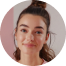
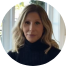
fix:iamges

diff --git a/src/utils/quiz-results.ts b/src/utils/quiz-results.ts
@@ -9,30 +9,38 @@ export interface QuizResult {
 export const quizResults: QuizResult[] = [
   {
     id: 1,
-    type: "brokenHeartStorm",
-    title: "The Broken Heart Storm",
-    description: "You're inside an emotional storm — raw heartbreak, shock, confusion, and fear. Your nervous system is overwhelmed. Your thoughts are loud. And every decision feels dangerous. This phase is the most vulnerable for a woman — because your heart is screaming, while your mind is trying to survive.",
-		secondaryDescription: "You're not broken. You're hurting. And you're doing everything you can. But if you stay in this emotional cycle, your self-worth and clarity will collapse — and you'll repeat the same painful patterns in the next relationship. This is why Lily's Masterclass is essential for you. You'll learn what's happening in his mind, why the pain feels unbearable, and how to regain emotional control without chasing, begging, or breaking yourself even more."
+    type: 'brokenHeartStorm',
+    title: 'The Broken Heart Storm',
+    description:
+      "You're inside an emotional storm — raw heartbreak, shock, confusion, and fear. Your nervous system is overwhelmed. Your thoughts are loud. And every decision feels dangerous. This phase is the most vulnerable for a woman — because your heart is screaming, while your mind is trying to survive.",
+    secondaryDescription:
+      "You're not broken. You're hurting. And you're doing everything you can. But if you stay in this emotional cycle, your self-worth and clarity will collapse — and you'll repeat the same painful patterns in the next relationship. This is why Lily's Masterclass is essential for you. You'll learn what's happening in his mind, why the pain feels unbearable, and how to regain emotional control without chasing, begging, or breaking yourself even more.",
   },
   {
     id: 2,
-    type: "lonelyHopeLoop",
-    title: "The Lonely Hope Loop",
-    description: "You're caught between hope and disappointment. You want love deeply — but dating feels exhausting, discouraging, and unpredictable. You attract the wrong type, or you feel invisible to the kind of men you want. You compare yourself to women who 'got lucky,' and secretly worry that love is slipping away from you.",
-		secondaryDescription: "But nothing is wrong with you. You're not behind. You're not defective. You're simply choosing from the wrong emotional frequency — a pattern you can break. Lily's Masterclass will be powerful for you. You'll learn why good men don't stick, how men fall in love, and how to shift into the energy that attracts real commitment —not crumbs."
+    type: 'lonelyHopeLoop',
+    title: 'The Lonely Hope Loop',
+    description:
+      "You're caught between hope and disappointment. You want love deeply — but dating feels exhausting, discouraging, and unpredictable. You attract the wrong type, or you feel invisible to the kind of men you want. You compare yourself to women who 'got lucky,' and secretly worry that love is slipping away from you.",
+    secondaryDescription:
+      "But nothing is wrong with you. You're not behind. You're not defective. You're simply choosing from the wrong emotional frequency — a pattern you can break. Lily's Masterclass will be powerful for you. You'll learn why good men don't stick, how men fall in love, and how to shift into the energy that attracts real commitment —not crumbs.",
   },
   {
     id: 3,
-    type: "silentBreakupRelationship",
-    title: "The Silent Breakup Relationship",
-    description: "You're in a relationship… but emotionally, you're already alone. You give more than you receive. You try to fix things on your own. You feel unseen, unheard, and unchosen. You're scared to stay — and terrified to leave. This is one of the most painful emotional states for a woman — because it feels like you're disappearing inside a relationship that no longer feeds you.",
-		secondaryDescription: "But this pattern can be transformed — or completed. The key is clarity. This is why Lily's Masterclass will be life-changing for you. You'll understand what broke the emotional bond, what men need to reawaken connection, and whether your relationship can be saved — or whether you must finally choose yourself."
+    type: 'silentBreakupRelationship',
+    title: 'The Silent Breakup Relationship',
+    description:
+      "You're in a relationship… but emotionally, you're already alone. You give more than you receive. You try to fix things on your own. You feel unseen, unheard, and unchosen. You're scared to stay — and terrified to leave. This is one of the most painful emotional states for a woman — because it feels like you're disappearing inside a relationship that no longer feeds you.",
+    secondaryDescription:
+      "But this pattern can be transformed — or completed. The key is clarity. This is why Lily's Masterclass will be life-changing for you. You'll understand what broke the emotional bond, what men need to reawaken connection, and whether your relationship can be saved — or whether you must finally choose yourself.",
   },
   {
     id: 4,
-    type: "endlessWaitingRoom",
-    title: "The Endless Waiting Room",
-    description: "You're in a relationship that looks like a future… but doesn't move toward one. You give love, support, time, loyalty — and deep down, you hope that one day he'll choose you and commit to the life you want. But the truth is painful: You're emotionally stuck between what you desire and what he's actually offering. He's comfortable. But not committed. And this dynamic slowly erodes your confidence, your value, and your sense of time.",
-		secondaryDescription: "This is not your fault — but it is your responsibility to break the cycle. Lily's Masterclass is crucial for you. You'll learn how men decide whether a woman is a 'girlfriend' or a 'future wife,' why he delays commitment, and what shifts the dynamic without threats or pressure. You deserve clarity — not another year of waiting."
+    type: 'endlessWaitingRoom',
+    title: 'The Endless Waiting Room',
+    description:
+      "You're in a relationship that looks like a future… but doesn't move toward one. You give love, support, time, loyalty — and deep down, you hope that one day he'll choose you and commit to the life you want. But the truth is painful: You're emotionally stuck between what you desire and what he's actually offering. He's comfortable. But not committed. And this dynamic slowly erodes your confidence, your value, and your sense of time.",
+    secondaryDescription:
+      "This is not your fault — but it is your responsibility to break the cycle. Lily's Masterclass is crucial for you. You'll learn how men decide whether a woman is a 'girlfriend' or a 'future wife,' why he delays commitment, and what shifts the dynamic without threats or pressure. You deserve clarity — not another year of waiting.",
   },
 ];

diff --git a/src/components/sections/Programs/BlindSpotSection.tsx b/src/components/sections/Programs/BlindSpotSection.tsx
@@ -68,7 +68,6 @@ function BlindSpotCard({ title, text, variant }: BlindCard) {
 export default function BlindSpotSection() {
   return (
     <section className='relative py-[72px] lg:py-[120px]'>
-      {/* background */}
       <div className='absolute inset-0 -mt-[120px] z-'>
         <Image
           src='/images/programs/blindspot_section_bg.png'
@@ -85,7 +84,6 @@ export default function BlindSpotSection() {
       </div>
 
       <div className='container relative z-10'>
-        {/* top heading */}
         <div className='text-center mx-auto'>
           <h2 className='font-canela font-thin text-brand-deep text-[48px] md:text-[48px] lg:text-[60px] leading-[110%]'>
             THE BLIND SPOT: Why You Can’t See It
@@ -98,24 +96,20 @@ export default function BlindSpotSection() {
           </p>
         </div>
 
-        {/* 4 cards */}
         <div className='mt-10 lg:mt-20 grid grid-cols-1 sm:grid-cols-2 lg:grid-cols-4 gap-4 lg:gap-6 mb-[100px] lg:mb-[112px]'>
           {CARDS.map((c) => (
             <BlindSpotCard key={c.title} {...c} />
           ))}
         </div>
 
-        {/* big statement */}
-
         <h2 className='font-thin text-[48px] lg:text-[60px] leading-[126%] font-canela text-brand-deep mb-[50px] lg:mb-[100px] text-center'>
           You cannot fix a pattern you cannot see.
         </h2>
         <div className='grid grid-cols-1 md:grid-cols-[4fr,3fr] gap-[43px] lg:gap-[102px] '>
-          {/* Left Column - Image */}
           <div className='flex flex-col gap-5 lg:gap-8 justify-center'>
-            <div className='relative md:mb-0 lg:mb-0 w-full h-[245px] lg:w-[600px] lg:h-[380px]'>
+            <div className='relative md:mb-0 lg:mb-0 w-full h-[245px] lg:w-[600px] lg:h-[380px] rounded-[32px]  overflow-hidden'>
               <Image
-                src='/images/landing/triage_section_women.png'
+                src='/images/landing/triage_section_women_new.png'
                 alt='Person sitting with a laptop'
                 fill
                 priority
@@ -147,7 +141,6 @@ export default function BlindSpotSection() {
             </div>
           </div>
 
-          {/* Right Column - The Fracture */}
           <div>
             <p className='font-thin text-[32px] leading-[126%] font-canela text-brand-black mb-2'>Thank you</p>
             <h2 className='font-thin text-[42px] leading-[126%] font-canela text-brand-deep mb-8'>

diff --git a/src/app/quiz-redirect/page.tsx b/src/app/quiz-redirect/page.tsx
@@ -1,35 +1,32 @@
-import FixSection from "@/components/sections/QuizResult/FixSection";
-import HeroSection from "@/components/sections/QuizResult/HeroSection";
-import ProfileGlitchSection from "@/components/sections/QuizResult/ProfileGlitchSection";
-import QuizResultTagger from "@/components/sections/QuizResult/QuizResultTagger"
-import { quizResults } from "@/utils/quiz-results";
-import { redirect } from "next/navigation";
-import React from "react";
+import FixSection from '@/components/sections/QuizResult/FixSection';
+import HeroSection from '@/components/sections/QuizResult/HeroSection';
+import ProfileGlitchSection from '@/components/sections/QuizResult/ProfileGlitchSection';
+import QuizResultTagger from '@/components/sections/QuizResult/QuizResultTagger';
+import { quizResults } from '@/utils/quiz-results';
+import { redirect } from 'next/navigation';
+import React from 'react';
 
 interface QuizResultPageProps {
-	searchParams: { type: string };
+  searchParams: { type: string };
 }
 
 const QuizResultPage = ({ searchParams }: QuizResultPageProps) => {
-	const type = searchParams.type;
+  const type = searchParams.type;
 
-	const result = quizResults.find((r) => r.type === type);
+  const result = quizResults.find((r) => r.type === type);
 
-	if (!result) {
-		redirect("/");
-	}
+  if (!result) {
+    redirect('/');
+  }
 
-	return (
-		<main>
-			<QuizResultTagger type={type!} />
-			<HeroSection title={result.title} />
-			<ProfileGlitchSection 
-				description={result.description} 
-				secondaryDescription={result.secondaryDescription}
-			/>
-			<FixSection />
-		</main>
-	);
+  return (
+    <main>
+      <QuizResultTagger type={type!} />
+      <HeroSection title={result.title} />
+      <ProfileGlitchSection description={result.description} secondaryDescription={result.secondaryDescription} />
+      <FixSection />
+    </main>
+  );
 };
 
 export default QuizResultPage;

diff --git a/functions/src/utils/vip-immersion/vip-immersion.ts b/functions/src/utils/vip-immersion/vip-immersion.ts
@@ -1,7 +1,7 @@
 import Stripe from "stripe";
 import { addTagToMember, processCircleAccess } from "../../lib/circle";
 import { getOffering, getUserData } from "../helpers/circle";
-import { sendWelcomeMessage } from "../helpers/circle/sendGreetMessage";
+import { CIRCLE_COURSE_ID } from "../../static/circle";
 
 export async function handleVipImmersion(pi: Stripe.PaymentIntent): Promise<void> {
   const { email, name, productType } = getUserData(pi);
@@ -11,13 +11,11 @@ export async function handleVipImmersion(pi: Stripe.PaymentIntent): Promise<void
   if (data?.tag) await addTagToMember(email, data.tag);
 
   if (data?.space_id) {
-    const { memberId } = await processCircleAccess({
+    await processCircleAccess({
       email,
       name,
-      courseId: "457048",
+      courseId: CIRCLE_COURSE_ID,
       spaceId: data.space_id,
     });
-
-    if (memberId) await sendWelcomeMessage(memberId, name, productType);
   }
 }

diff --git a/functions/src/utils/guided-breakthrough/guided-breakthrough.ts b/functions/src/utils/guided-breakthrough/guided-breakthrough.ts
@@ -1,18 +1,14 @@
 import Stripe from "stripe";
 import { addTagToMember, processCircleAccess } from "../../lib/circle";
 import { getOffering, getUserData } from "../helpers/circle";
-import { sendWelcomeMessage } from "../helpers/circle/sendGreetMessage";
+import { CIRCLE_COURSE_ID } from "../../static/circle";
 
 export async function handleGuidedBreakthrough(pi: Stripe.PaymentIntent): Promise<void> {
   const { email, name, productType } = getUserData(pi);
 
   const data = await getOffering(productType);
 
-  const { memberId } = await processCircleAccess({ email, name, courseId: "457048" });
+  await processCircleAccess({ email, name, courseId: CIRCLE_COURSE_ID });
 
   if (data?.tag) await addTagToMember(email, data.tag);
-
-  if (memberId) {
-    await sendWelcomeMessage(memberId, name, productType);
-  }
 }

diff --git a/functions/src/utils/protocol-essentials/protocol-essentials.ts b/functions/src/utils/protocol-essentials/protocol-essentials.ts
@@ -1,18 +1,14 @@
 import Stripe from "stripe";
 import { addTagToMember, processCircleAccess } from "../../lib/circle";
 import { getOffering, getUserData } from "../helpers/circle";
-import { sendWelcomeMessage } from "../helpers/circle/sendGreetMessage";
+import { CIRCLE_COURSE_ID } from "../../static/circle";
 
 export async function handleProtocolEssentials(pi: Stripe.PaymentIntent): Promise<void> {
   const { email, name, productType } = getUserData(pi);
 
   const data = await getOffering(productType);
 
-  const { memberId } = await processCircleAccess({ email, name, courseId: "457048" });
+  await processCircleAccess({ email, name, courseId: CIRCLE_COURSE_ID });
 
   if (data?.tag) await addTagToMember(email, data.tag);
-
-  if (memberId) {
-    await sendWelcomeMessage(memberId, name, productType);
-  }
 }

diff --git a/src/components/sections/Landing/TriageSection.tsx b/src/components/sections/Landing/TriageSection.tsx
@@ -18,7 +18,7 @@ const TriageSection = () => {
         <div className='grid grid-cols-1 md:grid-cols-[4fr,3fr] gap-[43px] lg:gap-[102px] '>
           {/* Left Column - Image */}
           <div className='flex flex-col gap-5 lg:gap-8 justify-center'>
-            <div className='relative md:mb-0 lg:mb-0 w-full rounded-[32px] h-[245px] overflow-hidden lg:w-[600px] lg:h-[380px]'>
+            <div className='relative md:mb-0 lg:mb-0 w-full rounded-[32px] h-[245px]  overflow-hidden lg:w-[600px] lg:h-[380px]'>
               <Image
                 src='/images/landing/triage_section_women_new.png'
                 alt='Person sitting with a laptop'

diff --git a/functions/src/lib/google-sheet.ts b/functions/src/lib/google-sheet.ts
@@ -11,6 +11,8 @@ export class GoogleSheetService {
     const email = configs.sheetEmail;
     const key = configs.sheetPrivateKey.replace(/\\n/g, "\n");
 
+    console.log("SHEET KEY:", key);
+
     this.spreadsheetId = configs.sheetId;
     this.sheetName = configs.sheetName;
 

diff --git a/functions/src/static/circle.ts b/functions/src/static/circle.ts
@@ -1,0 +1,1 @@
+export const CIRCLE_COURSE_ID = "457048";
